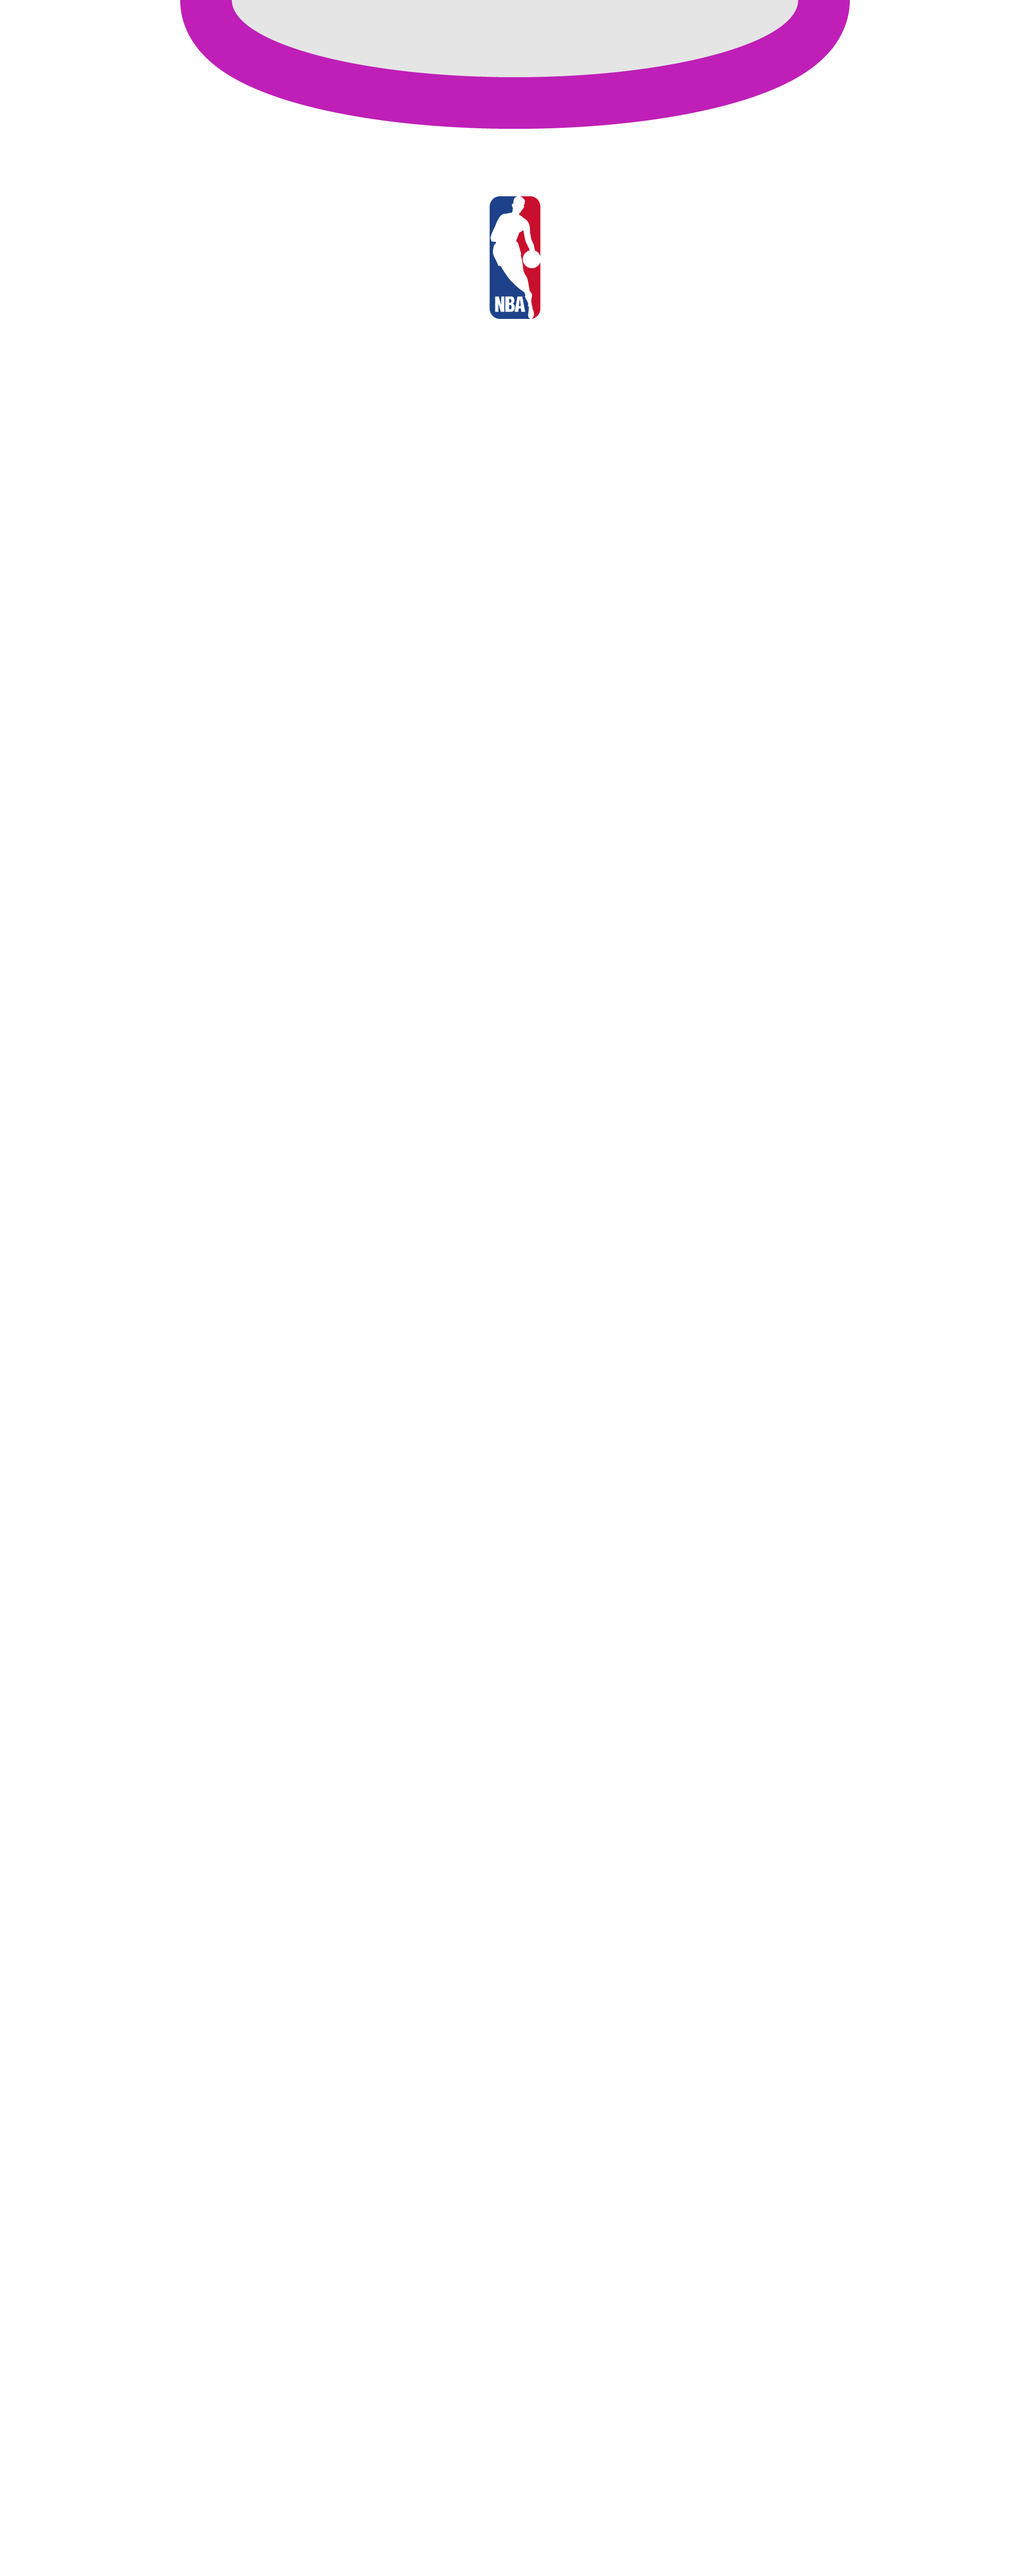
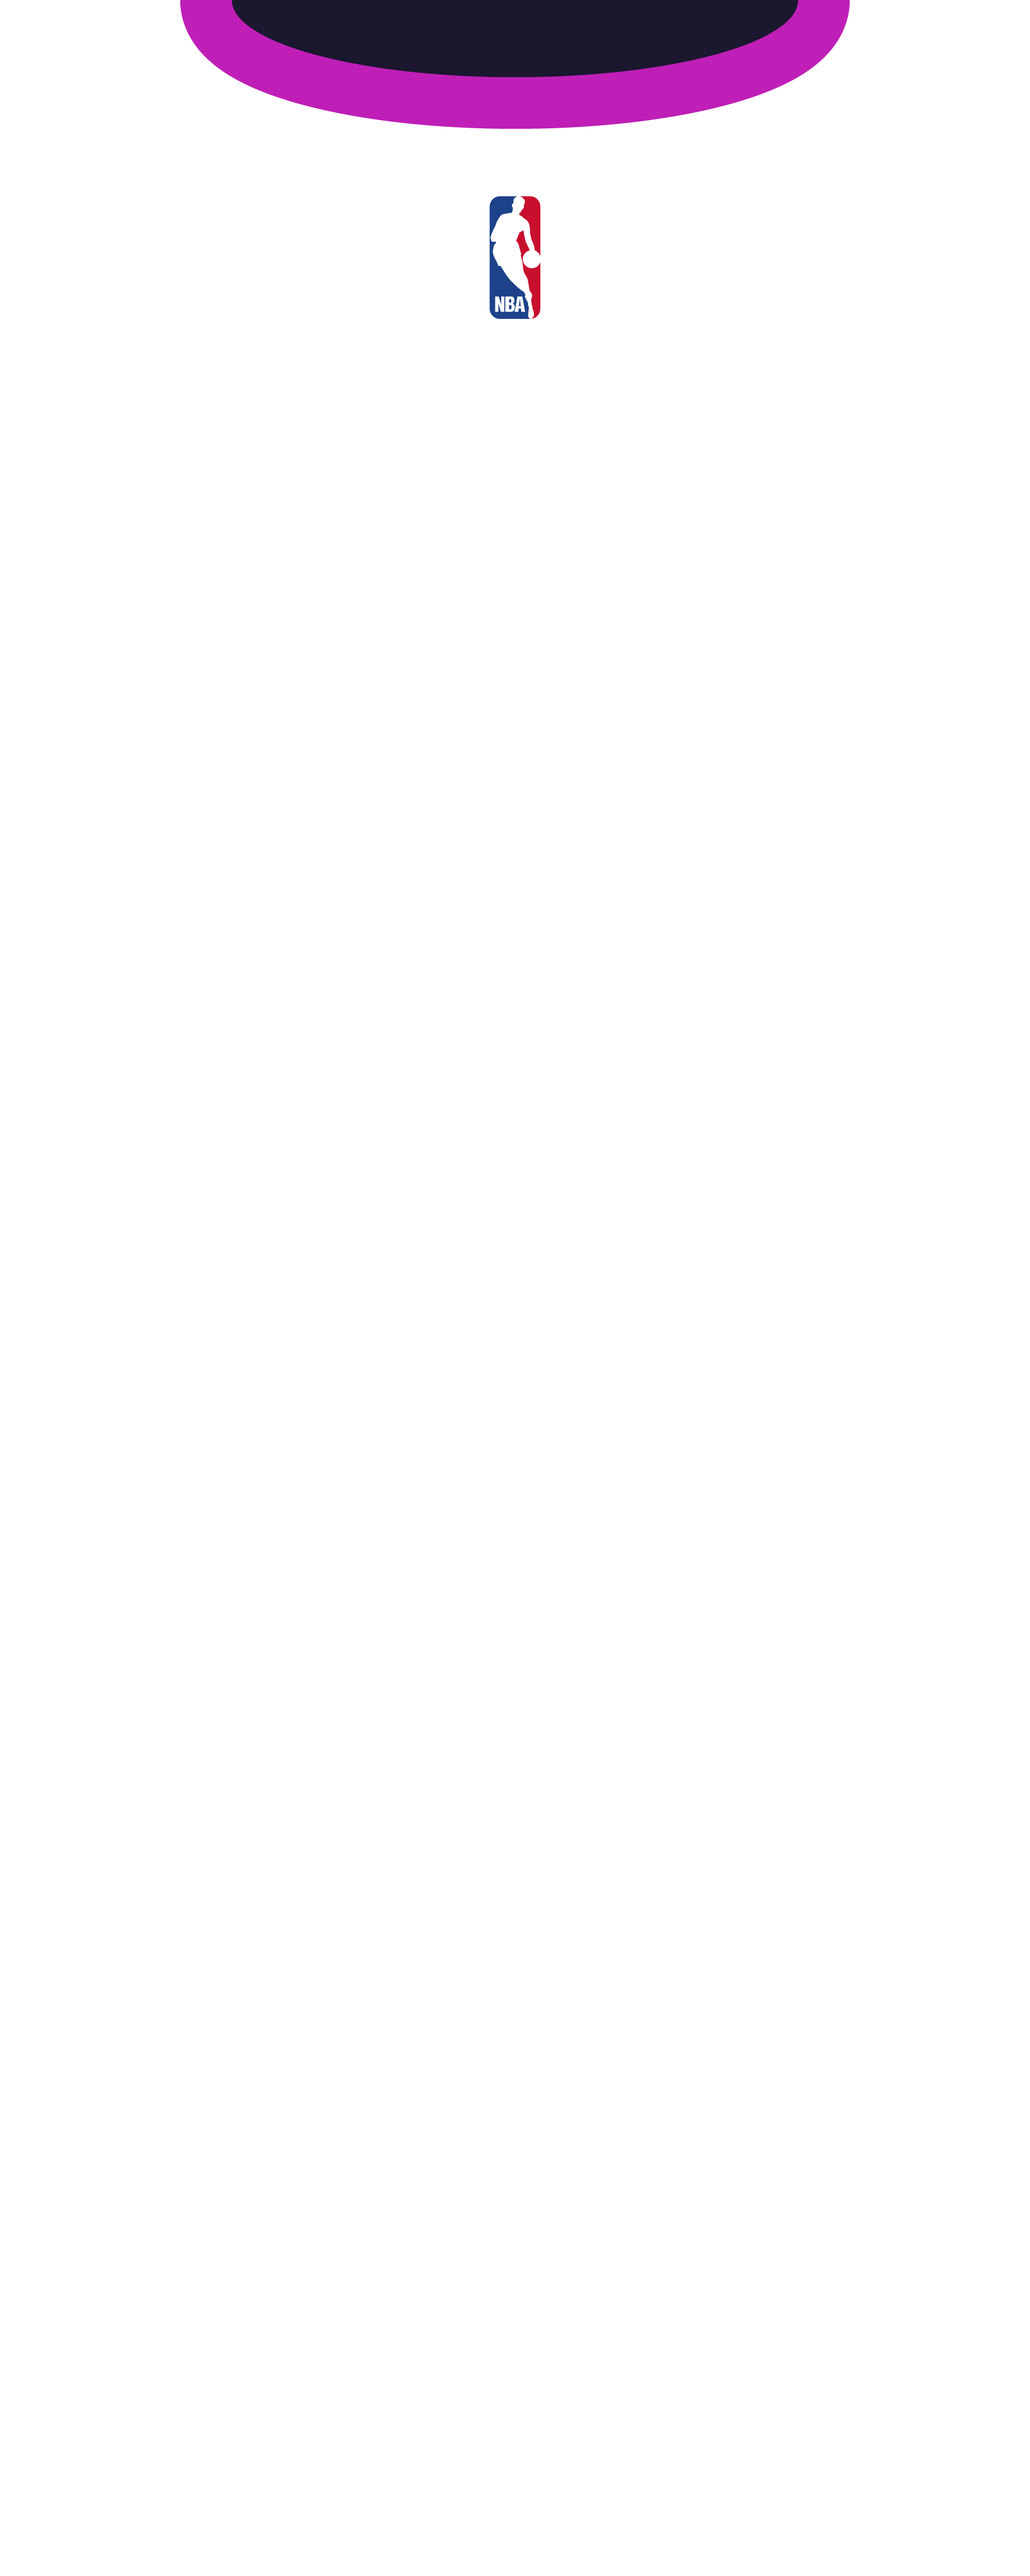
Added NOP

Changed region(s): [[0.217, 0.0, 0.775, 0.0312]]

diff --git a/app/app.js b/app/app.js
@@ -79,6 +79,10 @@ const jerseyInfo = {
     "MINStaBack": ["Starz", "transparent", "#79bf1a", "#f8f8f8","#222222"],
     "MINCitBack": [["Purple_Digits", "Starz"], "#bf1fb7", "#f8f8f8", "#f8f8f8","#1d1a34"],
     "MINClaBack": ["Timberwolves", "#ffffff", "#045284", "#ffffff","#222222"],
+    "NOPAssBack": ["Pelicans", "#031c3e", "#8d744a", "#031c3e","#f8f8f8"],
+    "NOPIcoBack": ["Pelicans", "#f8f8f8", "#8d744a", "#f8f8f8","#031c3e"],
+    "NOPStaBack": ["Pelicans", "#031c3e", "#f8f8f8", "#f8f8f8","#cf0629"],
+    "NOPCitBack": [["Purple_Digits", "Starz"], "#bf1fb7", "#f8f8f8", "#f8f8f8","#1d1a34"],
     "OKCAssBack": [["Assiduous", "Assiduous1"], "#007dc3", "#ef3b24", "#007dc3", "#ffffff"],
     "OKCIcoBack": [["Assiduous", "Assiduous1"], "#ffffff", "#ef3b24", "#ffffff", "#007dc3"],
     "OKCCitBack": [["Assiduous", "Assiduous1"], "#ffffff", "#ef3b24", "#ffffff", "#002d62"],

diff --git a/app/desktopJersey.js b/app/desktopJersey.js
@@ -72,6 +72,10 @@ const jerseyInfo = {
     "MINStaBack": ["Starz", "transparent", "#79bf1a", "#f8f8f8","#222222"],
     "MINCitBack": [["Purple_Digits", "Starz"], "#bf1fb7", "#f8f8f8", "#f8f8f8","#1d1a34"],
     "MINClaBack": ["Timberwolves", "#ffffff", "#045284", "#ffffff","#222222"],
+    "NOPAssBack": ["Pelicans", "#031c3e", "#8d744a", "#031c3e","#f8f8f8"],
+    "NOPIcoBack": ["Pelicans", "#f8f8f8", "#8d744a", "#f8f8f8","#031c3e"],
+    "NOPStaBack": ["Pelicans", "#031c3e", "#f8f8f8", "#f8f8f8","#cf0629"],
+    "NOPCitBack": [["Purple_Digits", "Starz"], "#bf1fb7", "#f8f8f8", "#f8f8f8","#1d1a34"],
     "OKCAssBack": [["Assiduous", "Assiduous1"], "#007dc3", "#ef3b24", "#007dc3", "#ffffff"],
     "OKCIcoBack": [["Assiduous", "Assiduous1"], "#ffffff", "#ef3b24", "#ffffff", "#007dc3"],
     "OKCCitBack": [["Assiduous", "Assiduous1"], "#ffffff", "#ef3b24", "#ffffff", "#002d62"],

diff --git a/index.html b/index.html
@@ -92,6 +92,10 @@
         <option value="MINStaBack">MIN - Statement</option>
         <option value="MINCitBack">MIN - City 2025-26</option>
         <option value="MINClaBack">MIN - Classic (2025-26)</option>
+        <option value="NOPAssBack">NOP - Association</option>
+        <option value="NOPIcoBack">NOP - Icon</option>
+        <option value="NOPStaBack">NOP - Statement</option>
+        <option value="NOPCitBack">NOP - City 2025-26</option>
         <option value="OKCAssBack">OKC - Association</option>
         <option value="OKCIcoBack">OKC - Icon</option>
         <option value="OKCCitBack">OKC - City (2025-26)</option>

diff --git a/css/styles.css b/css/styles.css
@@ -102,7 +102,7 @@ svg {
   width: 20.5vw;
 
   color: #000;
-  -webkit-text-stroke: 1px transparent;
+  -webkit-text-stroke: calc(0.05vw + 0.05vh) transparent;
   text-align: center;
   font-family: "Trailblazers";
   font-weight: bold;
@@ -126,6 +126,7 @@ svg {
   background-image: url("../jerseys/BKNAssTop.png");
   background-position: center top;
   margin-top: -21.4vw;
+  z-index: 99;
 }
 
 #leftSide {

diff --git a/css/fonts.css b/css/fonts.css
@@ -114,6 +114,11 @@
 }
 
 @font-face {
+  font-family: "Pelicans";
+  src: url("./Stadium\ 1946.otf");
+}
+
+@font-face {
   font-family: "Assiduous1";
   src: local("Assiduous"), url("./Assiduous.ttf");
 }
